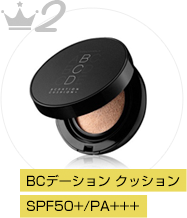
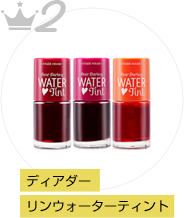
ando1116

diff --git a/index.html b/index.html
@@ -135,11 +135,11 @@
 	<div class="rankingCnt">
 	 <h2><img src="img/title/ttl_ranking.png" width="100%" alt="ランキング"></h2>
 	 <ul class="navUl">
-	  <li><a href="http://item.rakuten.co.jp/beautygarden-shop/etudehouse-angry/" target="_top"><img src="img/ranking/img_rank01.png" width="100%" alt="ティントマイブロウジュエルアングリーバード"></a></li>
-	  <li><a href="http://item.rakuten.co.jp/beautygarden-shop/tonymoly-bcdationcushion/" target="_top"><img src="img/ranking/img_rank02.png" width="100%" alt="BCデーション　クッション　SPF50+/PA+++"></a></li>
-	  <li><a href="http://item.rakuten.co.jp/beautygarden-shop/elishacoy24kgdcaviar04/" target="_top"><img src="img/ranking/img_rank03.png" width="100%" alt="24K GDゴールドキャビア　4種セット"></a></li>
-	  <li><a href="http://item.rakuten.co.jp/beautygarden-shop/fromnature001/" target="_top"><img src="img/ranking/img_rank04.png" width="100%" alt="エイジトリートメントエッセンス"></a></li>
-	  <li><a href="http://item.rakuten.co.jp/beautygarden-shop/peripera-perisinktintwater/" target="_top"><img src="img/ranking/img_rank05.png" width="100%" alt="ぺリスティントウォーター"></a></li>
+	  <li><a href="http://item.rakuten.co.jp/beautygarden-shop/aprilskin-magiccushion/" target="_top"><img src="img/ranking/img_rank01.png" width="186" height="220" alt="エイプリルスキン マジック スノークッション"></a></li>
+	  <li><a href="http://item.rakuten.co.jp/beautygarden-shop/etudehouse-watertint/" target="_top"><img src="img/ranking/img_rank02.png" width="184" height="218" alt="ディアダーリンウォーターティント"></a></li>
+	  <li><a href="http://item.rakuten.co.jp/beautygarden-shop/iope-aircushion-rx21/" target="_top"><img src="img/ranking/img_rank03.png" width="184" height="217" alt="エアークッション RX SPF50/PA"></a></li>
+	  <li><a href="http://item.rakuten.co.jp/beautygarden-shop/peripera-perisinkvelvet/" target="_top"><img src="img/ranking/img_rank04.png" width="214" height="192" alt="ペリスティントインクベルベット"></a></li>
+	  <li><a href="http://item.rakuten.co.jp/beautygarden-shop/peripera-perisinktintwater/" target="_top"><img src="img/ranking/img_rank05.png" width="184" height="191" alt="ぺリスティントウォーター"></a></li>
 	 </ul>
 	</div>
 	</div><!--ランキング-->
@@ -159,15 +159,12 @@
 	   </section>
 
 	   <section class="center">
-		<h3>Scandal<br>クリスタルソウルブラッシャー</h3>
+		<h3>エイプリルスキン<br/>マジック スノークッション</h3>
 		<p class="centerTittle">商品説明</p>
 		<p class="centerText">
-			くっきりと！輝くパール立体フェイスラインを完成！<br>
-			■くっきりと！輝く立体フェイス<br>
-			■キラキラパールが羽のように軽くフィットし<br>
-			どの角度からも完璧な立体感のあるフェイスラインを完成
+			楽天ランキング1位受賞！天然ミネラルウォーターがしっとり感とひんやり感を与え、少量でも欠点をしっかりカバーします。 
 		</p>
-		<p class="centerKingaku">価格<span>1,760</span>円(税込)</p>
+		<p class="centerKingaku">価格<span>4,000</span>円(税込)</p>
 	   </section>
 
 	   <section class="right">

diff --git a/css/common.css b/css/common.css
@@ -294,7 +294,7 @@ header span img{
 #rankingArea h2{
 	width:100%;
 	margin:0;
-	padding:35px 0 30px 20px;
+	padding:20px 0 0px 20px;
 }
 
 #rankingArea h2 img{
